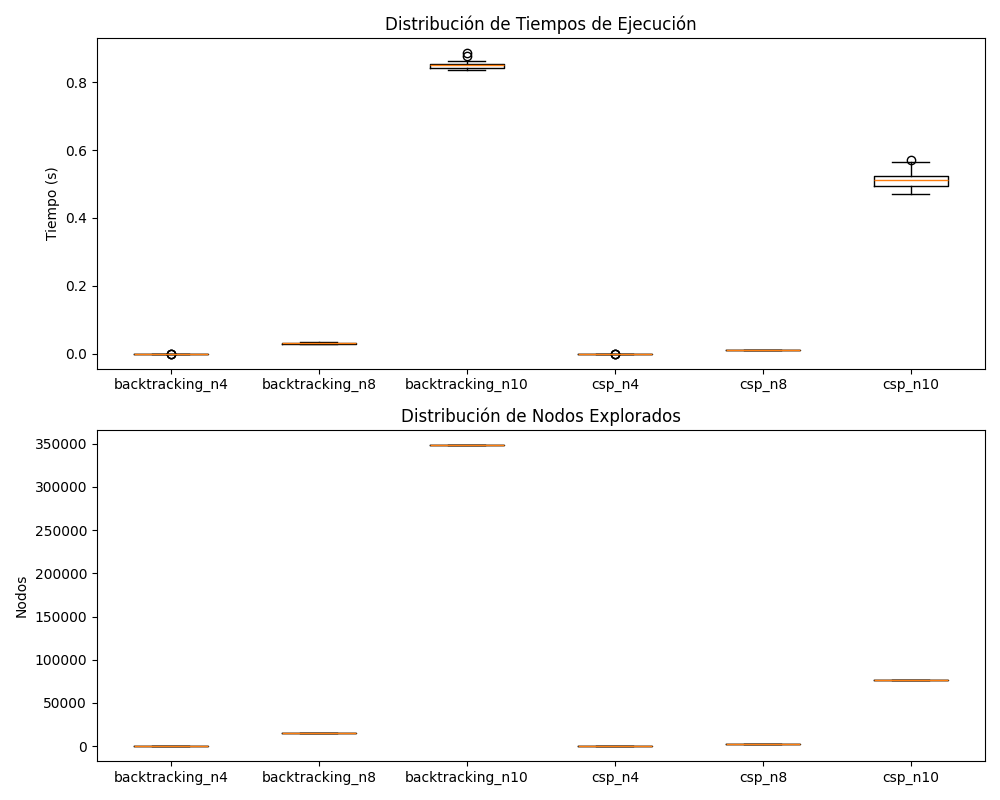
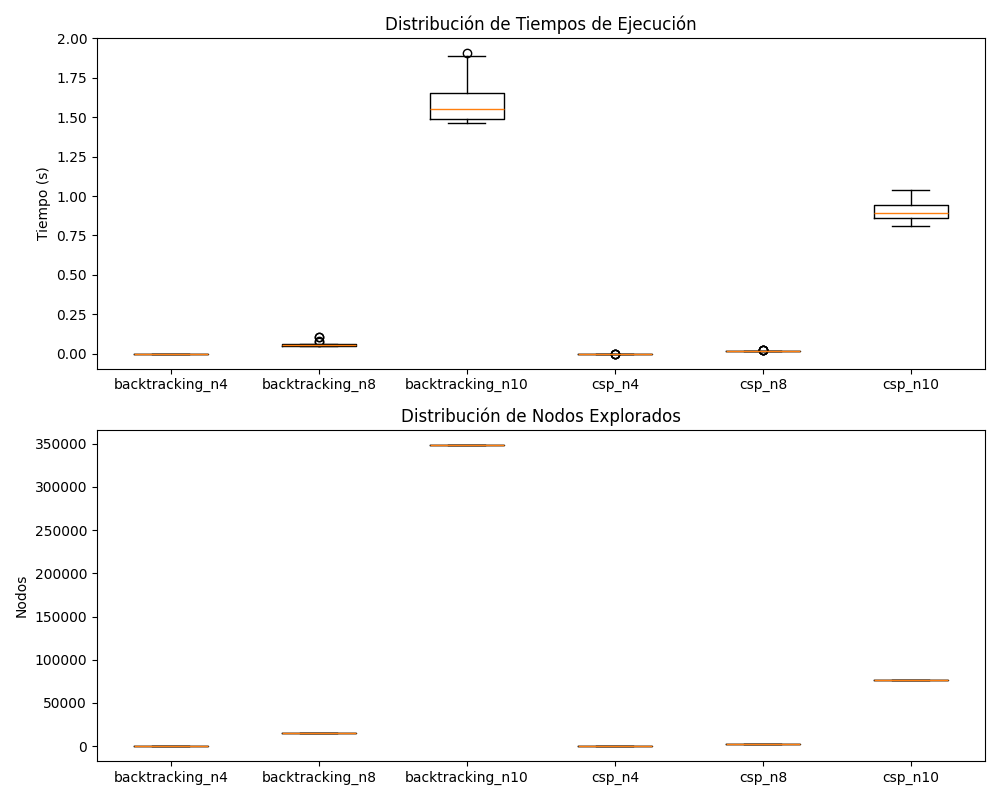
Reporte

diff --git a/tp5-csp/tp5-reporte.md b/tp5-csp/tp5-reporte.md
@@ -1,5 +1,78 @@
 # TP5 - Constraint Satisfaction Problems (CSP) para N-Reinas
 
+## 1. Formulación CSP para Sudoku
+
+El Sudoku se puede formular como un problema de satisfacción de restricciones (CSP) de la siguiente manera:
+
+### Variables
+- **Variables**: \( c_{i,j} \) para \( i = 1, \dots, 9 \) y \( j = 1, \dots, 9 \), donde cada variable representa el valor en la celda de la fila \( i \) y columna \( j \) del tablero de Sudoku.
+
+### Dominio
+- **Dominio**: Cada variable \( c_{i,j} \) tiene un dominio de valores posibles: \( \{1, 2, 3, 4, 5, 6, 7, 8, 9\} \).
+
+### Restricciones
+Las restricciones del Sudoku clásico son:
+- **Restricciones de fila**: Para cada fila \( i \), todas las variables \( c_{i,1}, c_{i,2}, \dots, c_{i,9} \) deben tener valores distintos.
+- **Restricciones de columna**: Para cada columna \( j \), todas las variables \( c_{1,j}, c_{2,j}, \dots, c_{9,j} \) deben tener valores distintos.
+- **Restricciones de bloque**: Para cada bloque 3x3 (definido por \( b_r = \lfloor (i-1)/3 \rfloor + 1 \) y \( b_c = \lfloor (j-1)/3 \rfloor + 1 \)), todas las variables en ese bloque deben tener valores distintos.
+
+Estas restricciones aseguran que el tablero resultante sea una solución válida de Sudoku.
+
+## 2. Consistencia de arcos (AC-3) en el mapa de Australia
+
+Demostrar que AC-3 detecta la inconsistencia de la asignación parcial \(\text{WA}=\text{red},\, \text{V}=\text{blue}\) en el problema de coloreo del mapa de Australia (AIMA Fig. 6.1).
+
+### Variables, dominios y vecinos
+- Variables: \(\{\text{WA}, \text{NT}, \text{SA}, \text{Q}, \text{NSW}, \text{V}, \text{T}\}\)
+- Dominio inicial: \(D(X)=\{\text{red},\text{green},\text{blue}\}\) para todas, salvo las asignadas.
+- Restricciones: desigualdad para pares de regiones adyacentes.
+- Vecindad (aristas):
+  - WA: NT, SA
+  - NT: WA, SA, Q
+  - SA: WA, NT, Q, NSW, V
+  - Q: NT, SA, NSW
+  - NSW: Q, SA, V
+  - V: SA, NSW
+  - T: (sin vecinos)
+
+Asignación parcial: \(D(\text{WA})=\{\text{red}\}\), \(D(\text{V})=\{\text{blue}\}\) y las demás con \(\{\text{red},\text{green},\text{blue}\}\).
+
+### Ejecución de AC-3 (resumen de podas)
+Partimos con la cola de arcos salientes de las variables asignadas: \((\text{WA},\text{NT}), (\text{WA},\text{SA}), (\text{V},\text{SA}), (\text{V},\text{NSW})\), etc. Aplicamos REVISE y reinsertamos arcos cuando un dominio cambia.
+
+1) Propagación desde WA=red:
+  - \(D(\text{NT}) \leftarrow D(\text{NT})\\\{\text{red}\} = \{\text{green},\text{blue}\}\)
+  - \(D(\text{SA}) \leftarrow D(\text{SA})\\\{\text{red}\} = \{\text{green},\text{blue}\}\)
+
+2) Propagación desde V=blue:
+  - \(D(\text{NSW}) \leftarrow D(\text{NSW})\\\{\text{blue}\} = \{\text{red},\text{green}\}\)
+  - \(D(\text{SA}) \leftarrow D(\text{SA})\\\{\text{blue}\} = \{\text{green}\}\)  (SA queda singleton)
+
+3) Propagación desde SA=green (nuevo singleton):
+  - \(D(\text{NT}) \leftarrow D(\text{NT})\\\{\text{green}\} = \{\text{blue}\}\)
+  - \(D(\text{Q}) \leftarrow D(\text{Q})\\\{\text{green}\} = \{\text{red},\text{blue}\}\)
+  - \(D(\text{NSW}) \leftarrow D(\text{NSW})\\\{\text{green}\} = \{\text{red}\}\)
+
+4) Propagación desde NT=blue (nuevo singleton):
+  - \(D(\text{Q}) \leftarrow D(\text{Q})\\\{\text{blue}\} = \{\text{red}\}\)
+
+5) Propagación entre Q y NSW:
+  - Con \(D(\text{Q})=\{\text{red}\}\) y \(D(\text{NSW})=\{\text{red}\}\), la restricción \(\text{Q} \neq \text{NSW}\) obliga a podar \(\text{red}\) en al menos uno. Al revisar el arco \((\text{Q},\text{NSW})\) o \((\text{NSW},\text{Q})\), uno de los dominios queda vacío.
+  - Por ejemplo, al revisar \((\text{Q},\text{NSW})\): \(D(\text{NSW}) \leftarrow D(\text{NSW})\\\{\text{red}\} = \varnothing\).
+
+Como \(D(\text{NSW})=\varnothing\), AC-3 detecta inconsistencia y se detiene. Intuitivamente: la asignación \(\text{WA}=\text{red}\) fuerza \(\text{SA}=\text{green}\), lo que fuerza \(\text{NT}=\text{blue}\) y \(\text{Q}=\text{red}\); a la vez, \(\text{V}=\text{blue}\) fuerza \(\text{NSW}=\text{red}\), dejando a NSW sin color distinto de sus vecinos (Q=red, SA=green, V=blue).
+
+## 3. Complejidad de AC-3 en CSP estructurado como árbol
+
+En un CSP estructurado como árbol, donde el grafo de restricciones forma un árbol (cualquier dos variables están relacionadas por a lo sumo un camino), la complejidad en el peor caso de AC-3 es \(O(c \cdot d)\). Esto se debe a que chequear la consistencia de un arco (es decir, revisar si un par de variables es consistente bajo la restricción) toma tiempo \(O(d)\), donde \(d\) es el tamaño del dominio, y dado que hay \(c\) restricciones (arcos) en el grafo, el algoritmo debe procesar cada una de ellas, resultando en una complejidad total de \(O(c \cdot d)\).
+
+Esto es fácil de deducir tratando el árbol como una lista (y ese es el peor caso del árbol), ya que en una estructura lineal, el algoritmo procesa cada arco una vez, y la verificación de consistencia por arco es \(O(d)\), llevando a \(O(c \cdot d)\) en total.
+
+Por qué no se reencolan arcos en un árbol
+- No hay ciclos: entre dos variables hay un único camino, de modo que la información (podas de dominio) fluye en una sola dirección a lo largo del árbol.
+- Si se enraiza el árbol y se procesa de hojas→raíz, cada REVISE(Xi, Xj) solo puede reducir el dominio “hacia arriba”. Como los dominios solo disminuyen (monotonía) y no existe un camino alternativo que haga que un recorte vuelva a impactar arcos ya verificados, ningún arco necesita reinsertarse.
+- Intuitivamente, el peor caso equivale a una lista: se recorre cada arco una sola vez en el sentido hoja→raíz, sin reencolados adicionales.
+
 ## Implementación de Algoritmos
 
 ### 1. Backtracking con Least Constraining Value (LCV)
